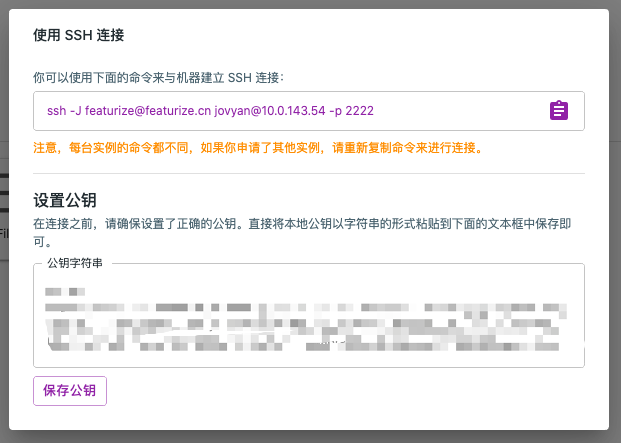
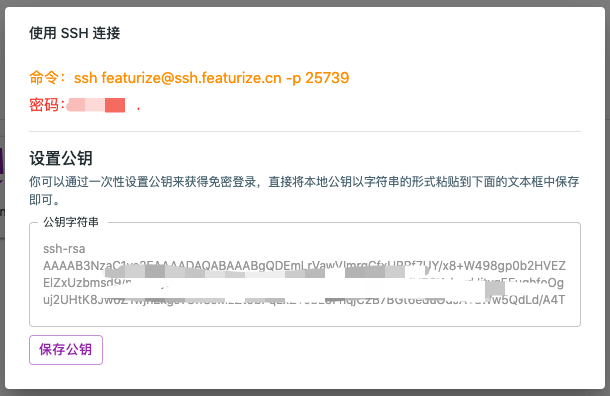
ssh

Changed region(s): [[0.0, 0.0, 0.9967, 1.0], [0.8721, 0.2121, 0.9344, 0.2727]]

diff --git a/docs/workspace.md b/docs/workspace.md
@@ -44,18 +44,9 @@ Featurize 为工作区添加了一些应用：
 
 ### SSH 连接
 
-如果你希望通过本地的 SSH 客户端连接到你所占用的机器，可以使用此功能。平台禁止用户名密码登录方式，仅允许使用公钥登录的方式。
+如果你希望通过本地的 SSH 客户端连接到你所占用的机器，可以使用此功能。你可以使用密码登录或公钥登录
 
 ![](/asset/ssh.png)
 
-由于 SSH 连接使用了跳板机，所以请确保你的 SSH 客户端开启了 `Agent Forwarding` 功能。
-{: .fe-warning-block}
-
 该 SSH 隧道支持 VS Code 等开发工具的**远程开发功能**。
 {: .fe-success-block}
-
-### VS Code
-
-一个在线的 VS Code 开发环境。
-
-![](/asset/online-vscode.png)

diff --git a/docs/prices.md b/docs/prices.md
@@ -51,7 +51,7 @@ Featurize 提供三种时长的长租：1 天、7 天、30 天。在长期租用
 |:-------------:  |:------------------:|
 |  0  至 40 小时部分   |  无折扣 |
 |  40 至 80 小时部分   |  9折 |
-|  40 小时以上   |  8折 |
+|  80 小时以上   |  8折 |
 
 每周用量累计不区分实例类型，而且多台机器同时使用会叠加用量统计。
 {: .fe-success-block}
